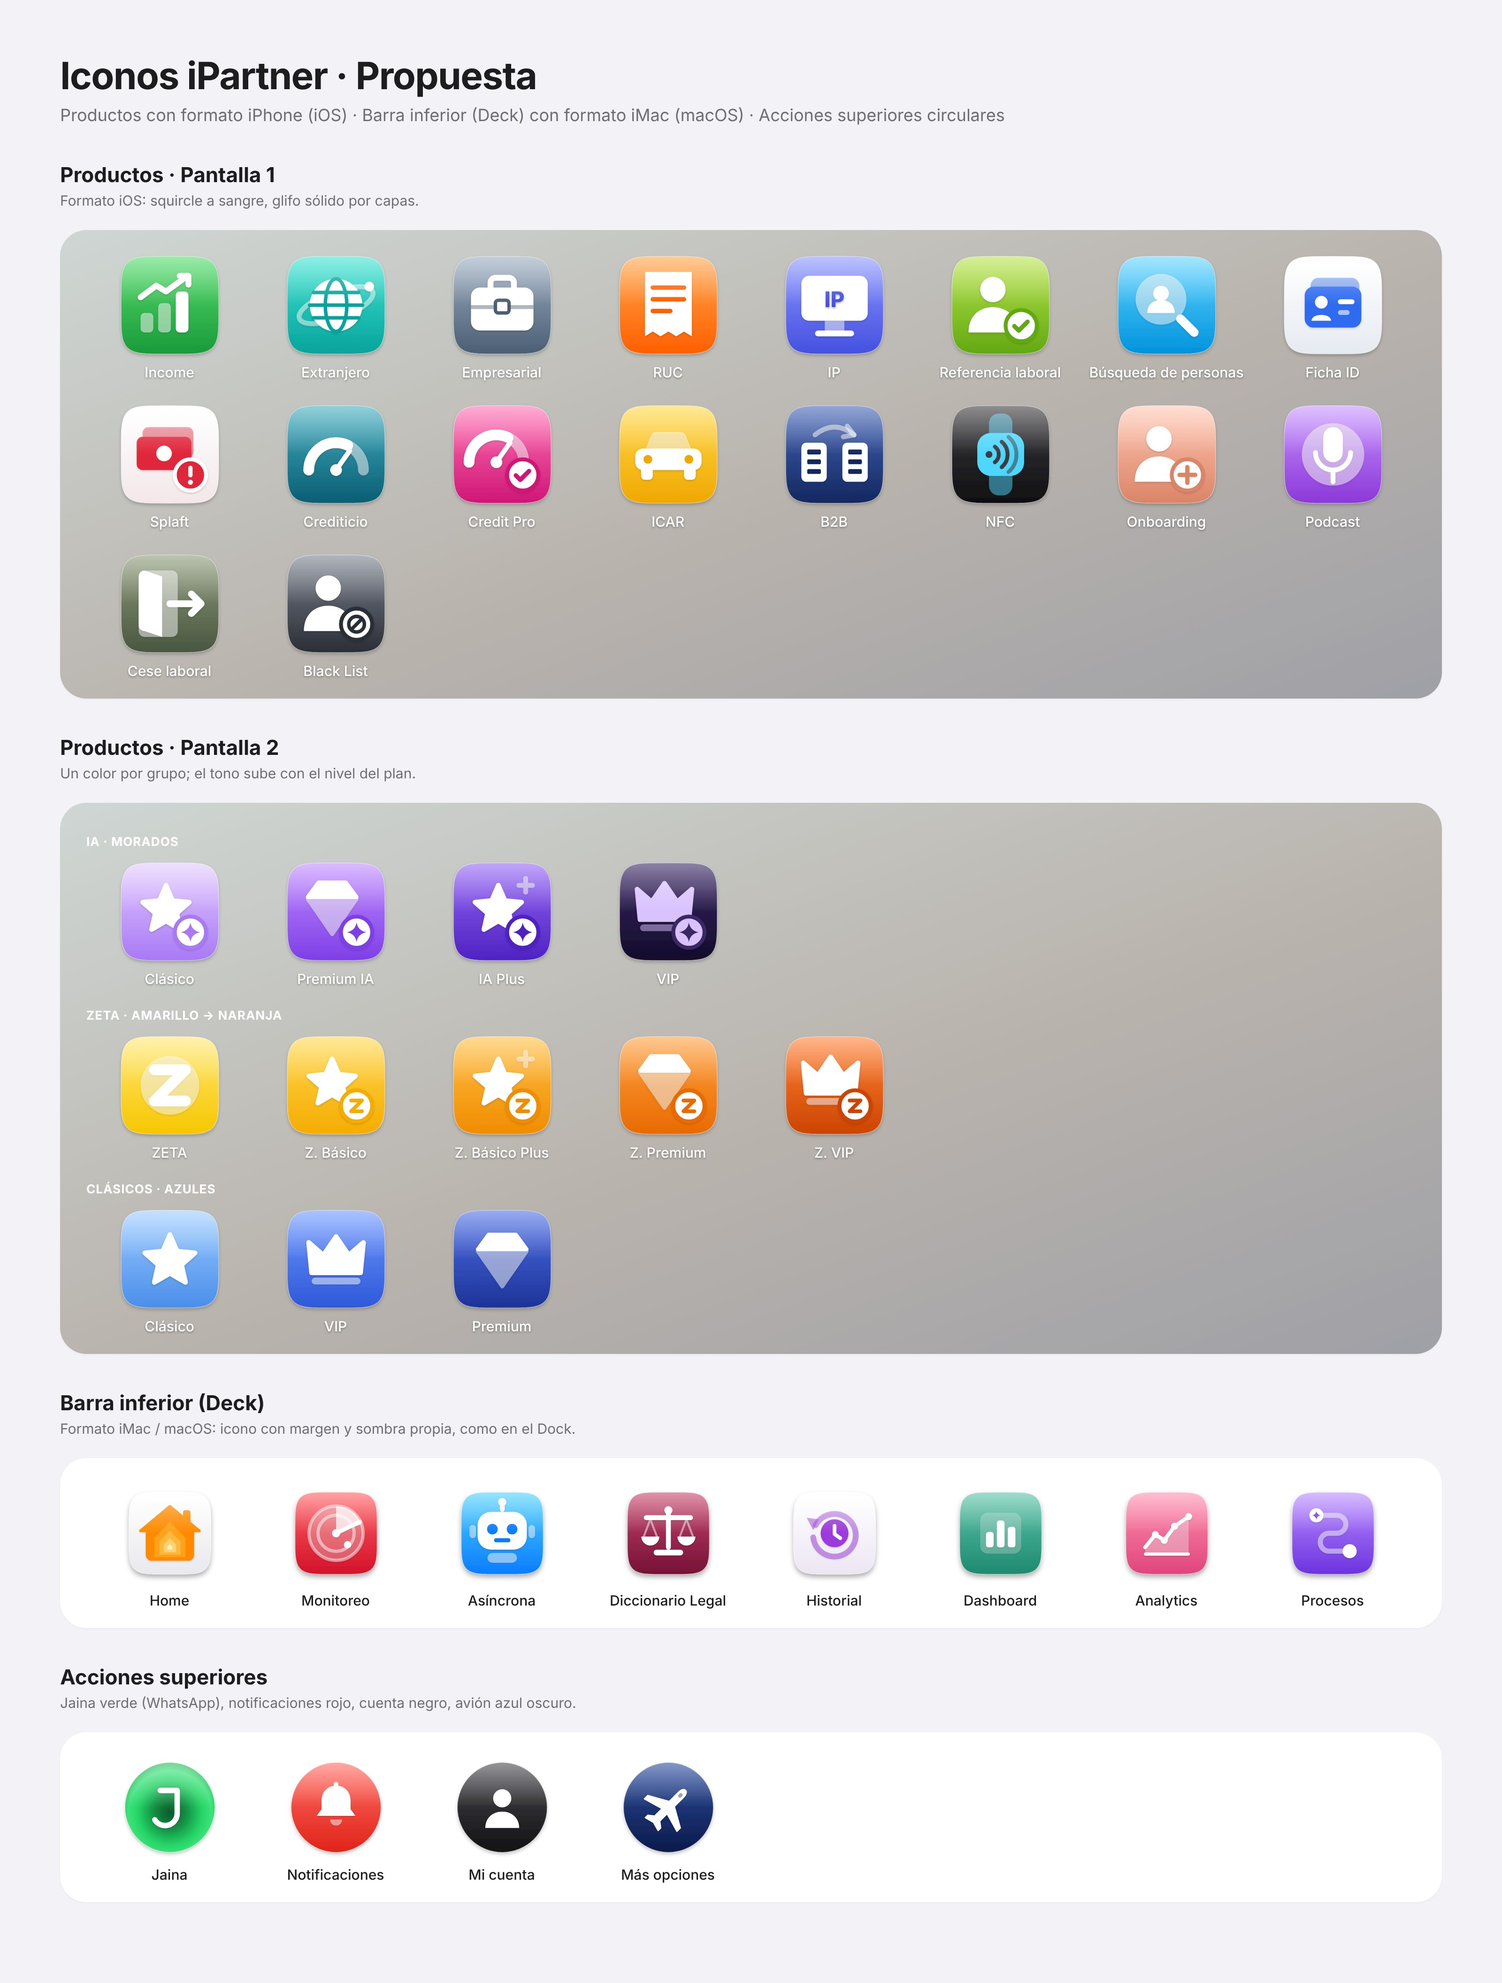
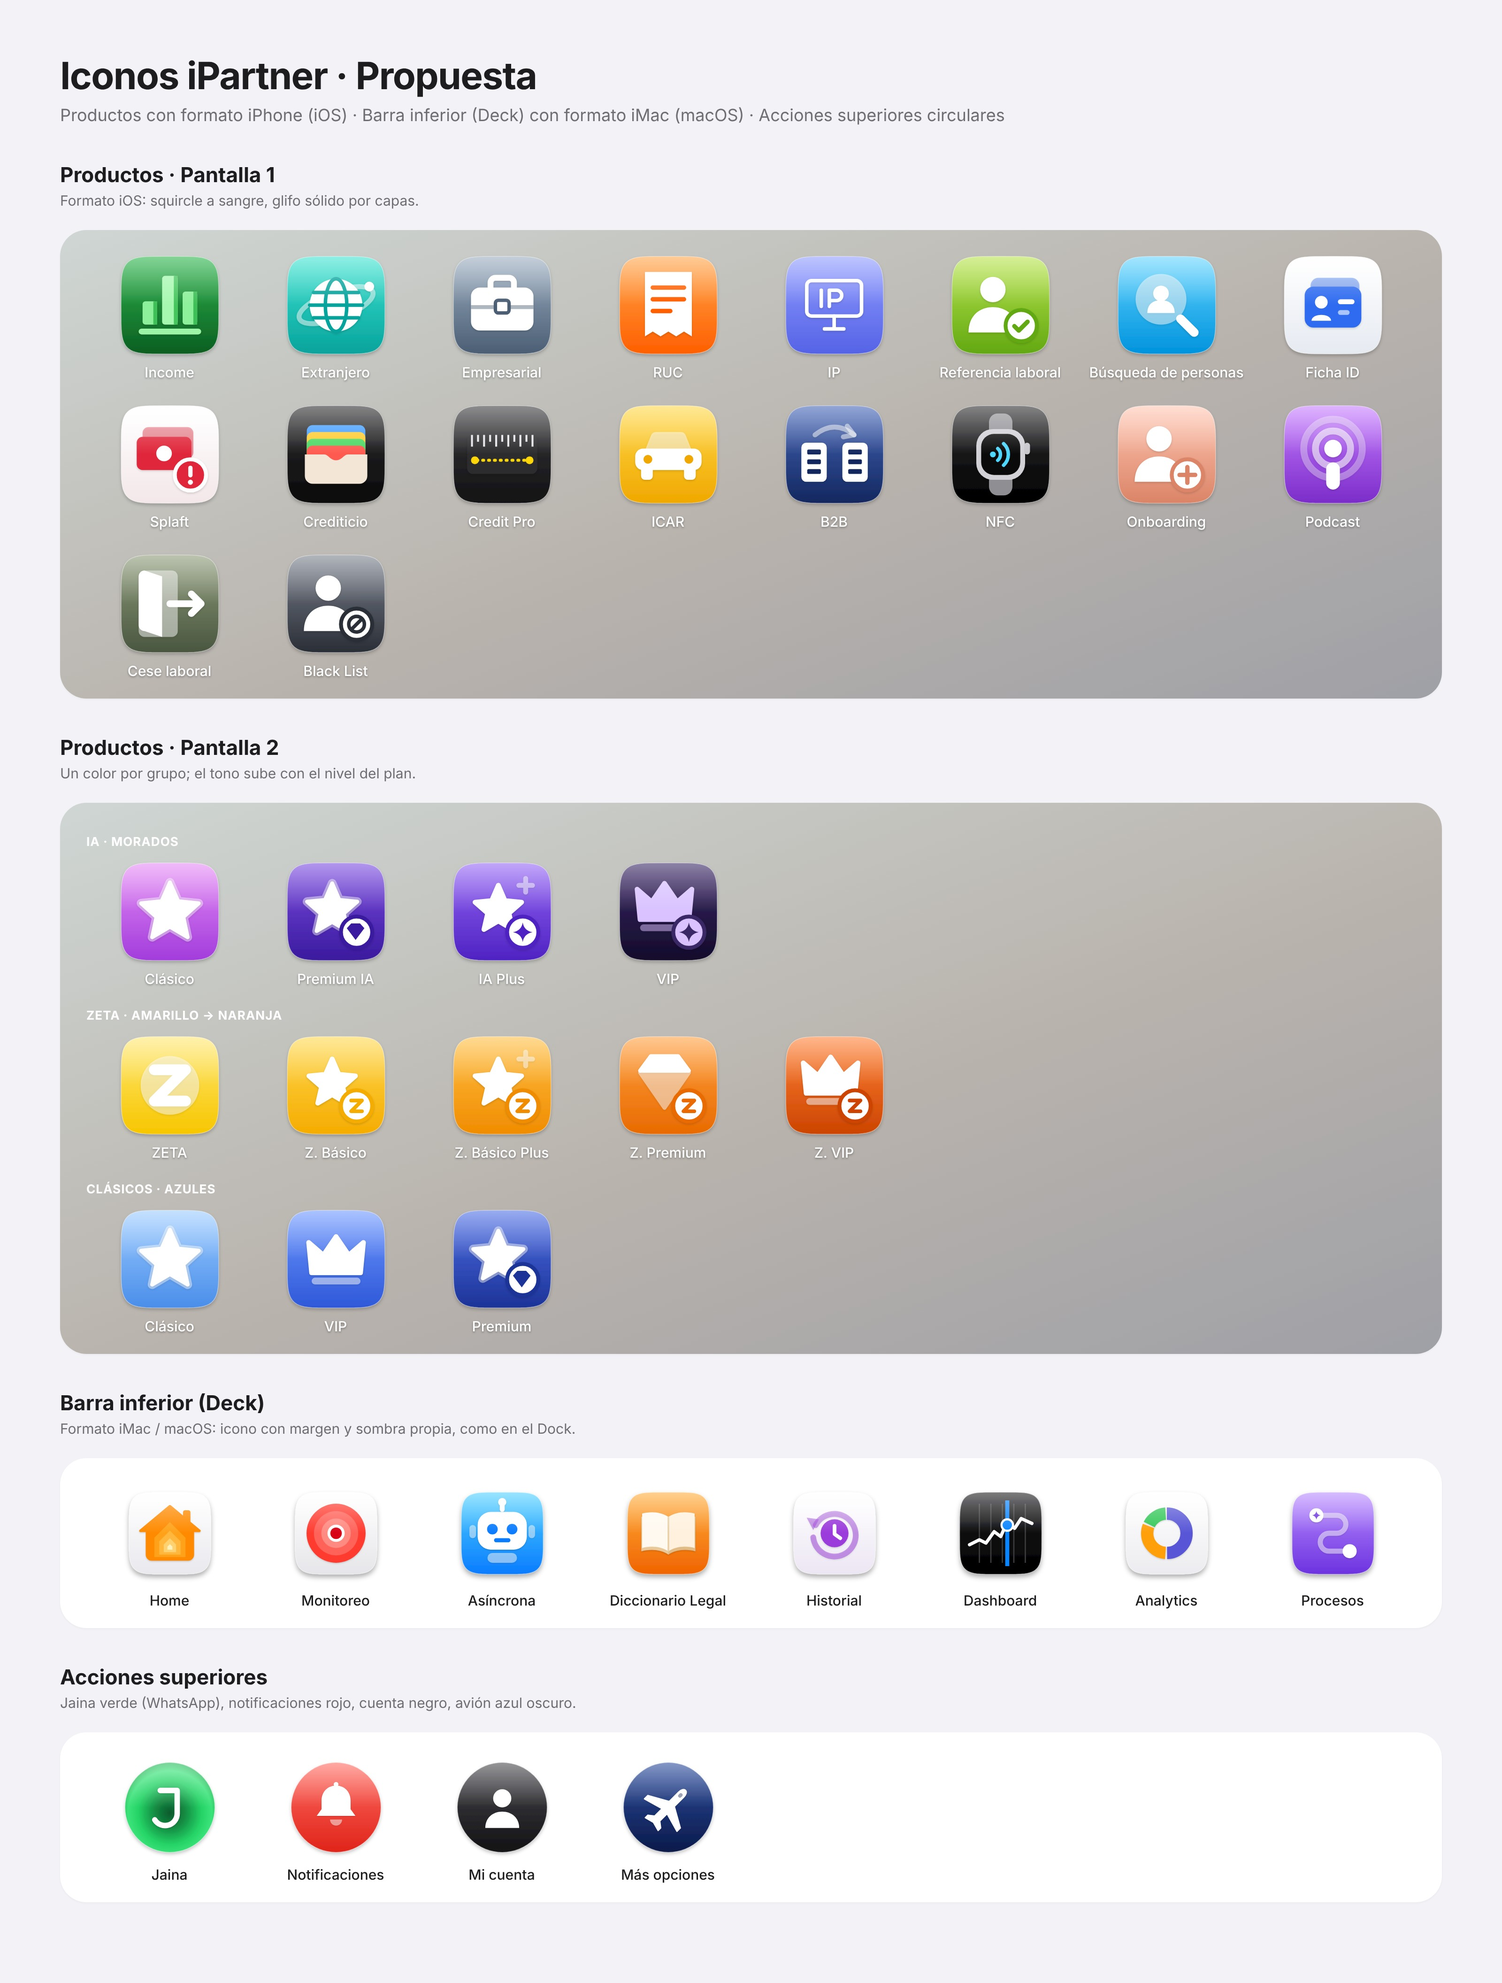
Iconos con estilo de referencias Apple: Numbers, Libros, Encontrar, Bolsa, Wallet, Watch, Medición, Podcasts, iTunes/iMovie
Claude-Session: https://claude.ai/code/session_013FvKEZxsCiBjp9t4yEHMvN

diff --git a/iconos/propuesta-iconos-plataforma.html b/iconos/propuesta-iconos-plataforma.html
@@ -1992,6 +1992,20 @@ const G={
  Analytics:`<g transform="translate(50 50) scale(.78) translate(-50 -50)"><path class="s" d="M16 74 32 52l14 9 16-22 22-15V80H16Z" style="opacity:.35"/><path class="ps" stroke-width="6" d="M16 72 32 52l14 9 16-22 22-15"/><circle class="p" cx="32" cy="52" r="5.5"/><circle class="p" cx="46" cy="61" r="5.5"/><circle class="p" cx="62" cy="39" r="5.5"/><circle class="p" cx="84" cy="24" r="5.5"/><rect class="p" x="14" y="80" width="72" height="5" rx="2.5"/></g>`,
  Procesos:`<g transform="translate(50 50) scale(.78) translate(-50 -50)"><path class="ss" stroke-width="8" d="M28 22h28a14 14 0 0 1 0 28H44a14 14 0 0 0 0 28h28"/><circle class="p" cx="24" cy="22" r="11"/><circle class="p" cx="76" cy="78" r="11"/><path class="c" d="M24 15.5q1 5.5 6.5 6.5-5.5 1-6.5 6.5-1-5.5-6.5-6.5 5.5-1 6.5-6.5Z"/></g>`
 };
+// Estilo Apple por referencia (Numbers, Libros, Encontrar, Bolsa, Wallet, Watch, Medición, Podcasts, iTunes Store, iMovie)
+Object.assign(G,{
+ 'income':`<rect x="18" y="74" width="64" height="6" rx="3" fill="#9CF5A6"/><rect x="22" y="46" width="15" height="24" rx="3" fill="#8DF09A"/><rect x="33" y="46" width="4" height="24" fill="#3FBF57"/><rect x="42" y="20" width="16" height="50" rx="3" fill="#A6F8B0"/><rect x="54" y="20" width="4" height="50" fill="#45C65C"/><rect x="63" y="36" width="15" height="34" rx="3" fill="#8DF09A"/><rect x="74" y="36" width="4" height="34" fill="#3FBF57"/>`,
+ 'Diccionario Legal':`<path d="M50 34c-9-6-21-7-33-4v42c12-3 24-2 33 4Z" fill="#E9C99A"/><path d="M50 34c9-6 21-7 33-4v42c-12-3-24-2-33 4Z" fill="#E2BC86"/><path d="M50 30c-9-6-21-7-32-4v42c11-3 23-2 32 4Z" fill="#FFF9F0"/><path d="M50 30c9-6 21-7 32-4v42c-11-3-23-2-32 4Z" fill="#FFF1DE"/><path d="M50 30v42" stroke="#E8CFA8" stroke-width="2"/>`,
+ 'Monitoreo':`<circle cx="50" cy="50" r="36" fill="#FF3B30"/><circle cx="50" cy="50" r="27" fill="#FF6259"/><circle cx="50" cy="50" r="18" fill="#FF8A82"/><circle cx="50" cy="50" r="10.5" fill="#fff"/><circle cx="50" cy="50" r="7" fill="#D70015"/>`,
+ 'Dashboard':`<g stroke="#3A3A3C" stroke-width="1.6"><path d="M24 14v72M38 14v72M52 14v72M66 14v72M80 14v72"/></g><path d="M12 64l12-6 8 4 10-14 8 6 8-18 9 8 8-12 13 6" fill="none" stroke="#fff" stroke-width="4" stroke-linecap="round" stroke-linejoin="round"/><path d="M58 10v80" stroke="#0A84FF" stroke-width="5"/><circle cx="58" cy="40" r="7" fill="#0A84FF" stroke="#fff" stroke-width="2.5"/>`,
+ 'Analytics':`<circle cx="50" cy="50" r="24" fill="none" stroke="#5856D6" stroke-width="15" stroke-dasharray="75 151" transform="rotate(-90 50 50)"/><circle cx="50" cy="50" r="24" fill="none" stroke="#FF9F0A" stroke-width="15" stroke-dasharray="45 151" stroke-dashoffset="-77" transform="rotate(-90 50 50)"/><circle cx="50" cy="50" r="24" fill="none" stroke="#34C759" stroke-width="15" stroke-dasharray="25 151" stroke-dashoffset="-124" transform="rotate(-90 50 50)"/>`,
+ 'nfc':`<rect x="38" y="8" width="24" height="84" rx="9" fill="#8E8E93"/><rect x="25" y="24" width="50" height="52" rx="17" fill="#D1D1D6"/><rect x="74" y="38" width="6" height="12" rx="3" fill="#C7C7CC"/><rect x="30" y="29" width="40" height="42" rx="13" fill="#0A0A0A"/><g fill="none" stroke="#4FD6FF" stroke-width="3.6" stroke-linecap="round"><path d="M47 44a8 8 0 0 1 0 12"/><path d="M53 39a15 15 0 0 1 0 22"/></g><circle cx="42" cy="50" r="3" fill="#4FD6FF"/>`,
+ 'crediticio':`<rect x="20" y="20" width="60" height="30" rx="6" fill="#3E9BFF"/><rect x="20" y="27" width="60" height="30" rx="6" fill="#FFCB2E"/><rect x="20" y="34" width="60" height="30" rx="6" fill="#4CD964"/><rect x="20" y="41" width="60" height="30" rx="6" fill="#FF5A4F"/><path d="M18 50h20c4 0 6 6 12 6s8-6 12-6h20v22a8 8 0 0 1-8 8H26a8 8 0 0 1-8-8Z" fill="#F3E6D6"/>`,
+ 'credit-pro':`<rect x="14" y="30" width="72" height="40" rx="6" fill="#2C2C2E"/><rect x="18.0" y="30" width="2" height="12" fill="#E5E5EA"/><rect x="24.2" y="30" width="2" height="7" fill="#E5E5EA"/><rect x="30.4" y="30" width="2" height="12" fill="#E5E5EA"/><rect x="36.6" y="30" width="2" height="7" fill="#E5E5EA"/><rect x="42.8" y="30" width="2" height="12" fill="#E5E5EA"/><rect x="49.0" y="30" width="2" height="7" fill="#E5E5EA"/><rect x="55.2" y="30" width="2" height="12" fill="#E5E5EA"/><rect x="61.4" y="30" width="2" height="7" fill="#E5E5EA"/><rect x="67.6" y="30" width="2" height="12" fill="#E5E5EA"/><rect x="73.8" y="30" width="2" height="7" fill="#E5E5EA"/><rect x="80.0" y="30" width="2" height="12" fill="#E5E5EA"/><path d="M24 56H76" stroke="#FFD60A" stroke-width="3" stroke-dasharray="1 5" stroke-linecap="round"/><circle cx="22" cy="56" r="4" fill="#FFD60A"/><circle cx="78" cy="56" r="4" fill="#FFD60A"/>`,
+ 'podcast':`<circle cx="50" cy="44" r="30" fill="none" stroke="#fff" stroke-opacity=".35" stroke-width="7"/><circle cx="50" cy="44" r="18" fill="none" stroke="#fff" stroke-opacity=".6" stroke-width="7"/><circle cx="50" cy="44" r="9" fill="#fff"/><rect x="43" y="58" width="14" height="28" rx="7" fill="#fff"/>`,
+ 'ip':`<g transform="scale(2.0833)" fill="none" stroke="var(--p)" stroke-width="2.2" stroke-linecap="round" stroke-linejoin="round" style="transform:translate(10px,10px) scale(1.65)"><rect x="7" y="9" width="34" height="22" rx="3"/><path d="M18 39h12M24 31v8"/><path d="M16 15v10M21 25V15h4.5a3.2 3.2 0 0 1 0 6.4H21"/></g>`,
+ clasico:`<polygon points="${st(50,51,31,14.5)}" fill="#fff" fill-opacity=".45" stroke="#fff" stroke-opacity=".45" stroke-width="9" stroke-linejoin="round"/><polygon class="p" points="${st(50,51,31,14.5)}" stroke="var(--p)" stroke-width="4" stroke-linejoin="round"/>`,'clasico-ia':`<polygon points="${st(50,51,31,14.5)}" fill="#fff" fill-opacity=".45" stroke="#fff" stroke-opacity=".45" stroke-width="9" stroke-linejoin="round"/><polygon class="p" points="${st(50,51,31,14.5)}" stroke="var(--p)" stroke-width="4" stroke-linejoin="round"/>`,premium:`<polygon points="${st(46,48,27,12.5)}" fill="#fff" fill-opacity=".45" stroke="#fff" stroke-opacity=".45" stroke-width="9" stroke-linejoin="round"/><polygon class="p" points="${st(46,48,27,12.5)}" stroke="var(--p)" stroke-width="4" stroke-linejoin="round"/>`+B(`<polygon class="c" points="61,67 65.5,62 74.5,62 79,67 70,79"/>`),'premium-ia':`<polygon points="${st(46,48,27,12.5)}" fill="#fff" fill-opacity=".45" stroke="#fff" stroke-opacity=".45" stroke-width="9" stroke-linejoin="round"/><polygon class="p" points="${st(46,48,27,12.5)}" stroke="var(--p)" stroke-width="4" stroke-linejoin="round"/>`+B(`<polygon class="c" points="61,67 65.5,62 74.5,62 79,67 70,79"/>`)
+});
 // Colores: [fondo1, fondo2, glifo opcional (fondo blanco/negro/crema), glifo en oscuro opcional]
 const C={income:['#55DB6C','#1A9A3A'],extranjero:['#3FE3D1','#06A39C'],proveedor:['#9AACBF','#4B5E74',,'#B9C8D8'],ruc:['#FFA54A','#FF5F00'],
  ip:['#8C96FF','#4450E0'],'referencia-laboral':['#B8E44C','#62A812'],'busqueda-personas':['#62D4FF','#0093DD'],'ficha-id':['#FFFFFF','#E6EAF1','#2E6BF0'],
@@ -2003,6 +2017,7 @@ const C={income:['#55DB6C','#1A9A3A'],extranjero:['#3FE3D1','#06A39C'],proveedor
  'clasico-ia':['#E2C9FF','#A979F5'],'premium-ia':['#C08CFF','#7E3FE6'],'ia-plus':['#9566F5','#4E22C2'],'vip-ia':['#3A2766','#140C2B','#D9C2FF'],
  Home:['#FFFFFF','#E9E9EE','#FF8A00'],Monitoreo:['#FF5E63','#D3122A'],'Asíncrona':['#4FD1FF','#0A7CFF'],'Diccionario Legal':['#C9466F','#741035',,'#FF85A8'],
  Historial:['#FFFFFF','#ECE6F3','#9B3BDB'],Dashboard:['#5AC2A8','#1F8A70'],Analytics:['#FF8FB1','#E0457B'],Procesos:['#B98BFF','#6C33E0']};
+Object.assign(C,{'income':['#2DB54B','#0B5E22'],'Diccionario Legal':['#FFAE3D','#F06400'],'Monitoreo':['#FFFFFF','#E6E6EA'],'Dashboard':['#1C1C1E','#000000'],'Analytics':['#FFFFFF','#ECECF0'],'nfc':['#2C2C2E','#000000'],'crediticio':['#2C2C2E','#0A0A0A'],'credit-pro':['#3A3A3C','#111113'],'podcast':['#C77DFF','#7B2CC9'],'ip':['#8f9bff','#5563e6'],'clasico-ia':['#E58BF5','#A23CDC'],'premium-ia':['#7B4BE0','#3A1A9E']});
 const items=[...document.querySelectorAll('.chip-app')].map(b=>({k:b.dataset.id,el:b.querySelector('.chip-ico')}))
  .concat([...document.querySelectorAll('nav .nav-item')].map(b=>({k:b.getAttribute('aria-label'),el:b.querySelector('.nav-chip')})));
 items.forEach(it=>{if(!it.el)return;it.orig=it.el.innerHTML;const c=C[it.k];if(!c)return;

diff --git a/iconos/hoja-iconos.html b/iconos/hoja-iconos.html
@@ -64,6 +64,20 @@ const G={
  Analytics:`<g transform="translate(50 50) scale(.78) translate(-50 -50)"><path class="s" d="M16 74 32 52l14 9 16-22 22-15V80H16Z" style="opacity:.35"/><path class="ps" stroke-width="6" d="M16 72 32 52l14 9 16-22 22-15"/><circle class="p" cx="32" cy="52" r="5.5"/><circle class="p" cx="46" cy="61" r="5.5"/><circle class="p" cx="62" cy="39" r="5.5"/><circle class="p" cx="84" cy="24" r="5.5"/><rect class="p" x="14" y="80" width="72" height="5" rx="2.5"/></g>`,
  Procesos:`<g transform="translate(50 50) scale(.78) translate(-50 -50)"><path class="ss" stroke-width="8" d="M28 22h28a14 14 0 0 1 0 28H44a14 14 0 0 0 0 28h28"/><circle class="p" cx="24" cy="22" r="11"/><circle class="p" cx="76" cy="78" r="11"/><path class="c" d="M24 15.5q1 5.5 6.5 6.5-5.5 1-6.5 6.5-1-5.5-6.5-6.5 5.5-1 6.5-6.5Z"/></g>`
 };
+// Estilo Apple por referencia (Numbers, Libros, Encontrar, Bolsa, Wallet, Watch, Medición, Podcasts, iTunes Store, iMovie)
+Object.assign(G,{
+ 'income':`<rect x="18" y="74" width="64" height="6" rx="3" fill="#9CF5A6"/><rect x="22" y="46" width="15" height="24" rx="3" fill="#8DF09A"/><rect x="33" y="46" width="4" height="24" fill="#3FBF57"/><rect x="42" y="20" width="16" height="50" rx="3" fill="#A6F8B0"/><rect x="54" y="20" width="4" height="50" fill="#45C65C"/><rect x="63" y="36" width="15" height="34" rx="3" fill="#8DF09A"/><rect x="74" y="36" width="4" height="34" fill="#3FBF57"/>`,
+ 'Diccionario Legal':`<path d="M50 34c-9-6-21-7-33-4v42c12-3 24-2 33 4Z" fill="#E9C99A"/><path d="M50 34c9-6 21-7 33-4v42c-12-3-24-2-33 4Z" fill="#E2BC86"/><path d="M50 30c-9-6-21-7-32-4v42c11-3 23-2 32 4Z" fill="#FFF9F0"/><path d="M50 30c9-6 21-7 32-4v42c-11-3-23-2-32 4Z" fill="#FFF1DE"/><path d="M50 30v42" stroke="#E8CFA8" stroke-width="2"/>`,
+ 'Monitoreo':`<circle cx="50" cy="50" r="36" fill="#FF3B30"/><circle cx="50" cy="50" r="27" fill="#FF6259"/><circle cx="50" cy="50" r="18" fill="#FF8A82"/><circle cx="50" cy="50" r="10.5" fill="#fff"/><circle cx="50" cy="50" r="7" fill="#D70015"/>`,
+ 'Dashboard':`<g stroke="#3A3A3C" stroke-width="1.6"><path d="M24 14v72M38 14v72M52 14v72M66 14v72M80 14v72"/></g><path d="M12 64l12-6 8 4 10-14 8 6 8-18 9 8 8-12 13 6" fill="none" stroke="#fff" stroke-width="4" stroke-linecap="round" stroke-linejoin="round"/><path d="M58 10v80" stroke="#0A84FF" stroke-width="5"/><circle cx="58" cy="40" r="7" fill="#0A84FF" stroke="#fff" stroke-width="2.5"/>`,
+ 'Analytics':`<circle cx="50" cy="50" r="24" fill="none" stroke="#5856D6" stroke-width="15" stroke-dasharray="75 151" transform="rotate(-90 50 50)"/><circle cx="50" cy="50" r="24" fill="none" stroke="#FF9F0A" stroke-width="15" stroke-dasharray="45 151" stroke-dashoffset="-77" transform="rotate(-90 50 50)"/><circle cx="50" cy="50" r="24" fill="none" stroke="#34C759" stroke-width="15" stroke-dasharray="25 151" stroke-dashoffset="-124" transform="rotate(-90 50 50)"/>`,
+ 'nfc':`<rect x="38" y="8" width="24" height="84" rx="9" fill="#8E8E93"/><rect x="25" y="24" width="50" height="52" rx="17" fill="#D1D1D6"/><rect x="74" y="38" width="6" height="12" rx="3" fill="#C7C7CC"/><rect x="30" y="29" width="40" height="42" rx="13" fill="#0A0A0A"/><g fill="none" stroke="#4FD6FF" stroke-width="3.6" stroke-linecap="round"><path d="M47 44a8 8 0 0 1 0 12"/><path d="M53 39a15 15 0 0 1 0 22"/></g><circle cx="42" cy="50" r="3" fill="#4FD6FF"/>`,
+ 'crediticio':`<rect x="20" y="20" width="60" height="30" rx="6" fill="#3E9BFF"/><rect x="20" y="27" width="60" height="30" rx="6" fill="#FFCB2E"/><rect x="20" y="34" width="60" height="30" rx="6" fill="#4CD964"/><rect x="20" y="41" width="60" height="30" rx="6" fill="#FF5A4F"/><path d="M18 50h20c4 0 6 6 12 6s8-6 12-6h20v22a8 8 0 0 1-8 8H26a8 8 0 0 1-8-8Z" fill="#F3E6D6"/>`,
+ 'credit-pro':`<rect x="14" y="30" width="72" height="40" rx="6" fill="#2C2C2E"/><rect x="18.0" y="30" width="2" height="12" fill="#E5E5EA"/><rect x="24.2" y="30" width="2" height="7" fill="#E5E5EA"/><rect x="30.4" y="30" width="2" height="12" fill="#E5E5EA"/><rect x="36.6" y="30" width="2" height="7" fill="#E5E5EA"/><rect x="42.8" y="30" width="2" height="12" fill="#E5E5EA"/><rect x="49.0" y="30" width="2" height="7" fill="#E5E5EA"/><rect x="55.2" y="30" width="2" height="12" fill="#E5E5EA"/><rect x="61.4" y="30" width="2" height="7" fill="#E5E5EA"/><rect x="67.6" y="30" width="2" height="12" fill="#E5E5EA"/><rect x="73.8" y="30" width="2" height="7" fill="#E5E5EA"/><rect x="80.0" y="30" width="2" height="12" fill="#E5E5EA"/><path d="M24 56H76" stroke="#FFD60A" stroke-width="3" stroke-dasharray="1 5" stroke-linecap="round"/><circle cx="22" cy="56" r="4" fill="#FFD60A"/><circle cx="78" cy="56" r="4" fill="#FFD60A"/>`,
+ 'podcast':`<circle cx="50" cy="44" r="30" fill="none" stroke="#fff" stroke-opacity=".35" stroke-width="7"/><circle cx="50" cy="44" r="18" fill="none" stroke="#fff" stroke-opacity=".6" stroke-width="7"/><circle cx="50" cy="44" r="9" fill="#fff"/><rect x="43" y="58" width="14" height="28" rx="7" fill="#fff"/>`,
+ 'ip':`<g transform="scale(2.0833)" fill="none" stroke="var(--p)" stroke-width="2.2" stroke-linecap="round" stroke-linejoin="round" style="transform:translate(10px,10px) scale(1.65)"><rect x="7" y="9" width="34" height="22" rx="3"/><path d="M18 39h12M24 31v8"/><path d="M16 15v10M21 25V15h4.5a3.2 3.2 0 0 1 0 6.4H21"/></g>`,
+ clasico:`<polygon points="${st(50,51,31,14.5)}" fill="#fff" fill-opacity=".45" stroke="#fff" stroke-opacity=".45" stroke-width="9" stroke-linejoin="round"/><polygon class="p" points="${st(50,51,31,14.5)}" stroke="var(--p)" stroke-width="4" stroke-linejoin="round"/>`,'clasico-ia':`<polygon points="${st(50,51,31,14.5)}" fill="#fff" fill-opacity=".45" stroke="#fff" stroke-opacity=".45" stroke-width="9" stroke-linejoin="round"/><polygon class="p" points="${st(50,51,31,14.5)}" stroke="var(--p)" stroke-width="4" stroke-linejoin="round"/>`,premium:`<polygon points="${st(46,48,27,12.5)}" fill="#fff" fill-opacity=".45" stroke="#fff" stroke-opacity=".45" stroke-width="9" stroke-linejoin="round"/><polygon class="p" points="${st(46,48,27,12.5)}" stroke="var(--p)" stroke-width="4" stroke-linejoin="round"/>`+B(`<polygon class="c" points="61,67 65.5,62 74.5,62 79,67 70,79"/>`),'premium-ia':`<polygon points="${st(46,48,27,12.5)}" fill="#fff" fill-opacity=".45" stroke="#fff" stroke-opacity=".45" stroke-width="9" stroke-linejoin="round"/><polygon class="p" points="${st(46,48,27,12.5)}" stroke="var(--p)" stroke-width="4" stroke-linejoin="round"/>`+B(`<polygon class="c" points="61,67 65.5,62 74.5,62 79,67 70,79"/>`)
+});
 // Colores: [fondo1, fondo2, glifo opcional (fondo blanco/negro/crema), glifo en oscuro opcional]
 const C={income:['#55DB6C','#1A9A3A'],extranjero:['#3FE3D1','#06A39C'],proveedor:['#9AACBF','#4B5E74',,'#B9C8D8'],ruc:['#FFA54A','#FF5F00'],
  ip:['#8C96FF','#4450E0'],'referencia-laboral':['#B8E44C','#62A812'],'busqueda-personas':['#62D4FF','#0093DD'],'ficha-id':['#FFFFFF','#E6EAF1','#2E6BF0'],
@@ -76,6 +90,7 @@ const C={income:['#55DB6C','#1A9A3A'],extranjero:['#3FE3D1','#06A39C'],proveedor
  Home:['#FFFFFF','#E9E9EE','#FF8A00'],Monitoreo:['#FF5E63','#D3122A'],'Asíncrona':['#4FD1FF','#0A7CFF'],'Diccionario Legal':['#C9466F','#741035',,'#FF85A8'],
  Historial:['#FFFFFF','#ECE6F3','#9B3BDB'],Dashboard:['#5AC2A8','#1F8A70'],Analytics:['#FF8FB1','#E0457B'],Procesos:['#B98BFF','#6C33E0']};
 
+Object.assign(C,{'income':['#2DB54B','#0B5E22'],'Diccionario Legal':['#FFAE3D','#F06400'],'Monitoreo':['#FFFFFF','#E6E6EA'],'Dashboard':['#1C1C1E','#000000'],'Analytics':['#FFFFFF','#ECECF0'],'nfc':['#2C2C2E','#000000'],'crediticio':['#2C2C2E','#0A0A0A'],'credit-pro':['#3A3A3C','#111113'],'podcast':['#C77DFF','#7B2CC9'],'ip':['#8f9bff','#5563e6'],'clasico-ia':['#E58BF5','#A23CDC'],'premium-ia':['#7B4BE0','#3A1A9E']});
 const TOP={btnJaina:['#5BEA8A','#1FB855',`<path class="ps" stroke-width="9" d="M34 22h28v38a20 20 0 0 1-37 10.5"/>`],
  btnNotif:['#FF6B61','#E0241A',`<path class="p" d="M50 14c-14 0-24 10.5-24 25v14l-8 11h64l-8-11V39c0-14.5-10-25-24-25Z"/><path class="s" d="M40 70a10 10 0 0 0 20 0Z"/><circle class="p" cx="50" cy="12" r="4"/>`],
  btnUser:['#4A4A4F','#111113',`<circle class="p" cx="50" cy="35" r="15"/><path class="p" d="M22 84c0-17 12.5-27 28-27s28 10 28 27Z"/>`],
